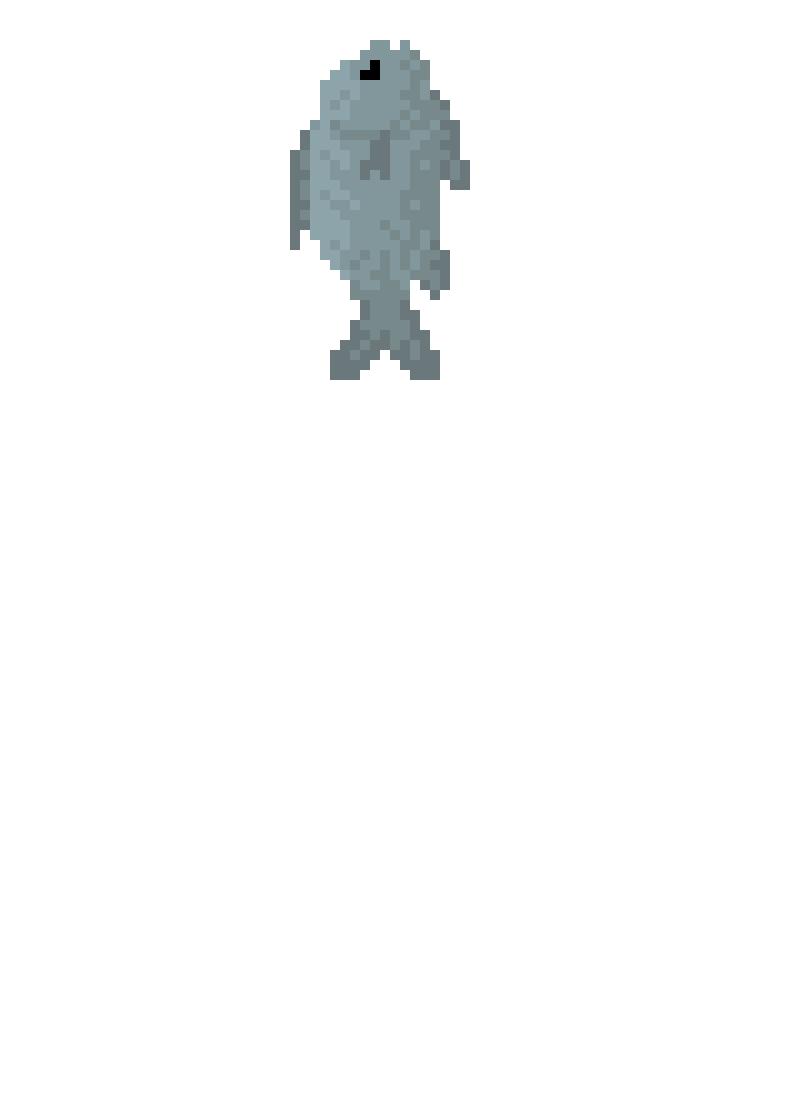
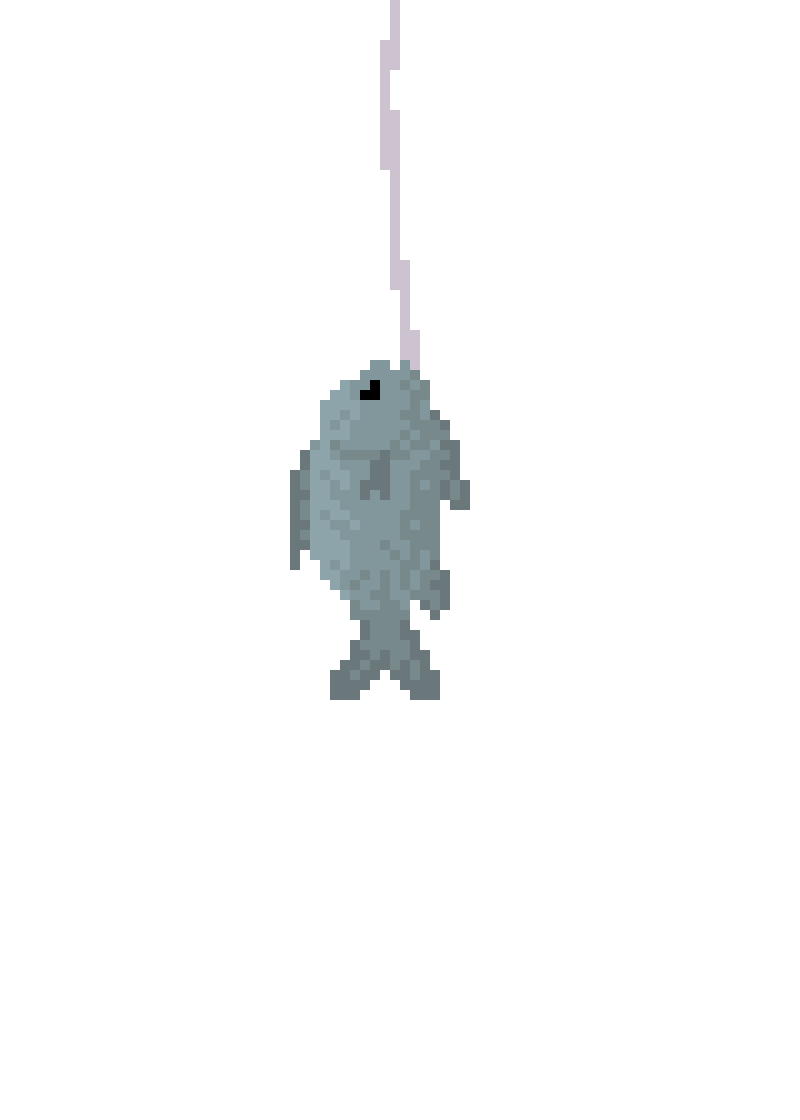
fish showed correctly

Changed region(s): [[0.3438, 0.0, 0.5938, 0.625]]

diff --git a/Untitled-Fishing-Game/assets/styles/fishesOverlayStyles.ts b/Untitled-Fishing-Game/assets/styles/fishesOverlayStyles.ts
@@ -1,37 +1,37 @@
 import { Dimensions, StyleSheet } from 'react-native';
 
-const { width: SCREEN_W } = Dimensions.get('window');
+const { width: SCREEN_W, height: SCREEN_H } = Dimensions.get('window');
 
 export const styles = StyleSheet.create({
     fish: {
-      ...StyleSheet.absoluteFillObject,
-      width: '100%',
-      height: '100%',
-    },
-    fishBackground: {
       position: 'absolute',
       width: '100%',
       height: '100%',
-      opacity: 0.18,
+      alignSelf: 'stretch',
     },
     overlayCard: {
+      position: 'absolute',
+      top: 0,
+      left: '50%',
+      transform: [{ translateX: -SCREEN_W * 0.425 }],
       width: SCREEN_W * 0.85,
-      minHeight: 360,
+      minHeight: 420,
       borderRadius: 14,
       overflow: 'hidden',
       justifyContent: 'center',
       alignItems: 'center',
+      backgroundColor: 'rgba(0, 0, 0, 0.0)',
     },
     container: {
         ...StyleSheet.absoluteFillObject,
-        backgroundColor: 'rgba(0, 0, 0, 0.8)',
+        backgroundColor: 'rgba(0, 0, 0, 0.40)',
         justifyContent: 'center',
         alignItems: 'center',
         zIndex: 9999,
     },
     card: {
-        width: '100%',
-        backgroundColor: 'rgba(0, 0, 0, 0.9)',
+        width: SCREEN_W * 0.85,
+        backgroundColor: 'rgba(0, 0, 0, 0.25)',
         borderRadius: 10,
         padding: 20,
         borderWidth: 4,

diff --git a/Untitled-Fishing-Game/components/catching/fish_overlay.tsx b/Untitled-Fishing-Game/components/catching/fish_overlay.tsx
@@ -26,19 +26,22 @@ export default function FishOverlay({ fish, onClose }: FishOverlayProps) {
      const rareteKey = fish.rarete.toLowerCase() as keyof typeof RARITY_COLORS;
      const themeColor = RARITY_COLORS[rareteKey] || '#FFFFFF';
 
-     const fish_rod_paths = [
-       require('@/assets/fishing_rod/canne_a_peche_sized.png'),
-       require('@/assets/fishing_rod/canne_a_peche_chargement_sized.png'),
-       require('@/assets/fishing_rod/canne_a_peche_lancer_sized.png')
-     ];
-     const fishRodId = 0;
      const fishImageSource = fishImageMap[fish.image];
 
      return (
      <View style={styles.container}>
-          <View style={[styles.card, { borderColor: themeColor }]}>
-          
-          {/*Nom dlu poisson*/}
+          <View style={styles.overlayCard}>
+               {fishImageSource && (
+                    <Image
+                      source={fishImageSource}
+                      style={styles.fish}
+                      contentFit="contain"
+                    />
+               )}
+
+          </View>
+
+          <View style={[styles.card, { borderColor: themeColor }]}> 
           <ThemedText style={{ color: themeColor, fontSize: 24, fontWeight: 'bold' }}>
                {fish.nom}
           </ThemedText>
